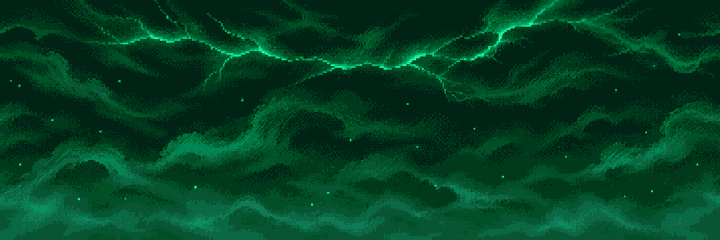
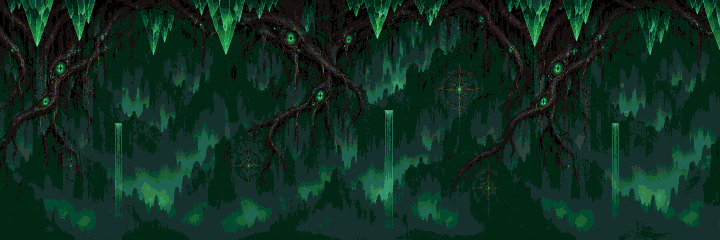
Jade Hollow: Robert's cavern sky and middle layer cut in; walkways, posts and blocks still borrowed from the Spires (v0.15.0)
Claude-Session: https://claude.ai/code/session_014iNMQLwM4oBRY4MMgoH4Hp

diff --git a/src/scenery.js b/src/scenery.js
@@ -1,3 +1,3 @@
 /* Level scenery cut by tools/cut_scenery.py from Robert's GPT art: atlas rects [x, y, w, h] and strip sizes. */
 window.DS = window.DS || {};
-DS.SCENERY = {"shallows":{"atlas":{"shrine1":[0,0,73,52],"shrine2":[74,0,64,62],"shrine3":[139,0,66,49],"post1":[206,0,31,66],"post2":[238,0,47,66],"cart":[286,0,78,26]}},"mire":{"atlas":{"chapel":[0,0,227,132],"hang1":[228,0,104,118],"hang2":[333,0,110,115],"hang3":[444,0,96,118],"grave1":[541,0,15,19],"grave2":[557,0,14,20],"grave3":[572,0,21,10],"grave4":[594,0,17,21],"grave5":[612,0,15,22],"grave6":[628,0,13,11],"tree1":[642,0,49,68],"tree2":[692,0,73,91],"tree3":[766,0,46,83],"tree4":[813,0,72,71],"tree5":[886,0,43,62],"tree6":[930,0,73,69],"walk":[0,133,279,17],"post1":[280,133,10,80],"post2":[291,133,10,80],"post3":[302,133,10,80],"post4":[313,133,10,80],"block1":[324,133,83,19],"block2":[408,133,83,38],"block3":[492,133,133,75],"steps":[626,133,104,38]},"sky":[720,240],"far":[582,64]},"reaches":{"atlas":{"bridge":[0,0,265,76],"tower":[266,0,53,128],"crag1":[320,0,92,134],"crag2":[413,0,133,134],"crag3":[547,0,133,140],"rock1":[681,0,63,92],"rock2":[745,0,69,50],"window":[815,0,76,87],"rock3":[892,0,74,85],"scaffold":[0,141,72,85],"banner":[73,141,78,96],"walk":[152,141,147,17],"post1":[300,141,20,80],"post2":[321,141,20,80],"post3":[342,141,20,80],"post4":[363,141,20,80],"block1":[384,141,73,37],"block2":[458,141,68,56],"block3":[527,141,100,75],"steps":[628,141,84,55]},"sky":[720,240],"far":[385,64]},"abyss":{"atlas":{"agrave1":[0,0,26,40],"agrave2":[27,0,28,40],"agrave3":[56,0,29,30],"crystal1":[86,0,21,19],"crystal2":[108,0,31,30],"crystal3":[140,0,30,39],"briar1":[171,0,100,96],"briar2":[272,0,67,27],"bellframe":[340,0,131,96],"dtree1":[472,0,71,87],"dtree2":[544,0,74,86],"dtree3":[619,0,60,92],"dtree4":[680,0,75,92],"dtree5":[756,0,62,89],"dtree6":[819,0,69,89],"walk":[0,97,155,15],"post1":[156,97,20,80],"post2":[177,97,22,80],"post3":[200,97,22,80],"post4":[223,97,31,80],"block1":[255,97,87,29],"block2":[343,97,83,47],"block3":[427,97,131,75],"steps":[559,97,105,60]},"sky":[720,240],"far":[439,64]},"spires":{"atlas":{"portal":[0,0,117,130],"pylon":[118,0,60,124],"pylonBroken":[179,0,55,85],"isle1":[235,0,65,73],"isle2":[301,0,78,71],"isle3":[380,0,65,77],"arch":[446,0,75,75],"cpillar":[522,0,45,89],"wall":[568,0,57,70],"fisle1":[626,0,66,77],"chpillar":[693,0,58,75],"fisle2":[752,0,47,92],"walk":[800,0,119,15],"post1":[920,0,16,70],"post2":[937,0,20,70],"post3":[958,0,26,70],"post4":[985,0,24,80],"block1":[0,131,62,33],"block2":[63,131,60,48],"block3":[124,131,87,75],"steps":[212,131,76,56]},"sky":[720,240],"far":[401,64]},"mines":{"atlas":{"headframe":[0,0,105,100],"cart":[106,0,96,37],"brazier":[203,0,60,69],"lavafall":[264,0,114,110],"pillar":[379,0,93,110],"gate":[473,0,147,110],"basalt":[621,0,65,85],"scaffold":[687,0,68,85],"chimney":[756,0,69,88],"mheadframe":[826,0,81,92],"lavarock":[908,0,63,88],"parch":[0,111,76,80],"walk":[77,111,214,17],"post1":[292,111,25,80],"post2":[318,111,33,80],"post3":[352,111,27,80],"post4":[380,111,37,80],"block1":[418,111,83,28],"block2":[502,111,83,44],"block3":[586,111,128,75],"steps":[715,111,109,60]},"sky":[720,240],"far":[363,64]},"throne":{"atlas":{"throne":[0,0,142,110],"curtain":[143,0,82,110],"statue":[226,0,58,104],"tpillar1":[285,0,35,88],"tbanner1":[321,0,38,88],"tbrazier1":[360,0,35,83],"tbroken1":[396,0,58,80],"tbanner2":[455,0,39,88],"tbrazier2":[495,0,45,92],"tpillar2":[541,0,36,92],"tbanner3":[578,0,40,92],"tbrazier3":[619,0,35,81],"tpillar3":[655,0,35,92],"tbanner4":[691,0,41,92],"tbrazier4":[733,0,34,86],"tbroken2":[768,0,47,72],"walk":[0,111,250,17],"post1":[251,111,20,80],"post2":[272,111,20,80],"post3":[293,111,24,80],"post4":[318,111,19,80],"block1":[338,111,87,28],"block2":[426,111,88,46],"block3":[515,111,117,75],"steps":[633,111,108,58]},"sky":[720,240],"far":[342,64]}};
+DS.SCENERY = {"shallows":{"atlas":{"shrine1":[0,0,73,52],"shrine2":[74,0,64,62],"shrine3":[139,0,66,49],"post1":[206,0,31,66],"post2":[238,0,47,66],"cart":[286,0,78,26]}},"mire":{"atlas":{"chapel":[0,0,227,132],"hang1":[228,0,104,118],"hang2":[333,0,110,115],"hang3":[444,0,96,118],"grave1":[541,0,15,19],"grave2":[557,0,14,20],"grave3":[572,0,21,10],"grave4":[594,0,17,21],"grave5":[612,0,15,22],"grave6":[628,0,13,11],"tree1":[642,0,49,68],"tree2":[692,0,73,91],"tree3":[766,0,46,83],"tree4":[813,0,72,71],"tree5":[886,0,43,62],"tree6":[930,0,73,69],"walk":[0,133,279,17],"post1":[280,133,10,80],"post2":[291,133,10,80],"post3":[302,133,10,80],"post4":[313,133,10,80],"block1":[324,133,83,19],"block2":[408,133,83,38],"block3":[492,133,133,75],"steps":[626,133,104,38]},"sky":[720,240],"far":[582,64]},"reaches":{"atlas":{"bridge":[0,0,265,76],"tower":[266,0,53,128],"crag1":[320,0,92,134],"crag2":[413,0,133,134],"crag3":[547,0,133,140],"rock1":[681,0,63,92],"rock2":[745,0,69,50],"window":[815,0,76,87],"rock3":[892,0,74,85],"scaffold":[0,141,72,85],"banner":[73,141,78,96],"walk":[152,141,147,17],"post1":[300,141,20,80],"post2":[321,141,20,80],"post3":[342,141,20,80],"post4":[363,141,20,80],"block1":[384,141,73,37],"block2":[458,141,68,56],"block3":[527,141,100,75],"steps":[628,141,84,55]},"sky":[720,240],"far":[385,64]},"abyss":{"atlas":{"agrave1":[0,0,26,40],"agrave2":[27,0,28,40],"agrave3":[56,0,29,30],"crystal1":[86,0,21,19],"crystal2":[108,0,31,30],"crystal3":[140,0,30,39],"briar1":[171,0,100,96],"briar2":[272,0,67,27],"bellframe":[340,0,131,96],"dtree1":[472,0,71,87],"dtree2":[544,0,74,86],"dtree3":[619,0,60,92],"dtree4":[680,0,75,92],"dtree5":[756,0,62,89],"dtree6":[819,0,69,89],"walk":[0,97,155,15],"post1":[156,97,20,80],"post2":[177,97,22,80],"post3":[200,97,22,80],"post4":[223,97,31,80],"block1":[255,97,87,29],"block2":[343,97,83,47],"block3":[427,97,131,75],"steps":[559,97,105,60]},"sky":[720,240],"far":[439,64]},"spires":{"atlas":{"portal":[0,0,117,130],"pylon":[118,0,60,124],"pylonBroken":[179,0,55,85],"isle1":[235,0,65,73],"isle2":[301,0,78,71],"isle3":[380,0,65,77],"arch":[446,0,75,75],"cpillar":[522,0,45,89],"wall":[568,0,57,70],"fisle1":[626,0,66,77],"chpillar":[693,0,58,75],"fisle2":[752,0,47,92],"walk":[800,0,119,15],"post1":[920,0,16,70],"post2":[937,0,20,70],"post3":[958,0,26,70],"post4":[985,0,24,80],"block1":[0,131,62,33],"block2":[63,131,60,48],"block3":[124,131,87,75],"steps":[212,131,76,56]},"sky":[720,240],"far":[401,64]},"mines":{"atlas":{"headframe":[0,0,105,100],"cart":[106,0,96,37],"brazier":[203,0,60,69],"lavafall":[264,0,114,110],"pillar":[379,0,93,110],"gate":[473,0,147,110],"basalt":[621,0,65,85],"scaffold":[687,0,68,85],"chimney":[756,0,69,88],"mheadframe":[826,0,81,92],"lavarock":[908,0,63,88],"parch":[0,111,76,80],"walk":[77,111,214,17],"post1":[292,111,25,80],"post2":[318,111,33,80],"post3":[352,111,27,80],"post4":[380,111,37,80],"block1":[418,111,83,28],"block2":[502,111,83,44],"block3":[586,111,128,75],"steps":[715,111,109,60]},"sky":[720,240],"far":[363,64]},"throne":{"atlas":{"throne":[0,0,142,110],"curtain":[143,0,82,110],"statue":[226,0,58,104],"tpillar1":[285,0,35,88],"tbanner1":[321,0,38,88],"tbrazier1":[360,0,35,83],"tbroken1":[396,0,58,80],"tbanner2":[455,0,39,88],"tbrazier2":[495,0,45,92],"tpillar2":[541,0,36,92],"tbanner3":[578,0,40,92],"tbrazier3":[619,0,35,81],"tpillar3":[655,0,35,92],"tbanner4":[691,0,41,92],"tbrazier4":[733,0,34,86],"tbroken2":[768,0,47,72],"walk":[0,111,250,17],"post1":[251,111,20,80],"post2":[272,111,20,80],"post3":[293,111,24,80],"post4":[318,111,19,80],"block1":[338,111,87,28],"block2":[426,111,88,46],"block3":[515,111,117,75],"steps":[633,111,108,58]},"sky":[720,240],"far":[342,64]},"jade":{"atlas":{"jarch":[0,0,98,76],"jroot":[99,0,71,77],"jcrystal":[171,0,74,77],"jpillar":[246,0,39,81],"jcpillar":[286,0,50,92],"jstub":[337,0,37,49],"walk":[375,0,119,15],"post1":[495,0,16,70],"post2":[512,0,20,70],"post3":[533,0,26,70],"post4":[560,0,24,80],"block1":[585,0,62,33],"block2":[648,0,60,48],"block3":[709,0,87,75],"steps":[797,0,76,56]},"sky":[720,240]}};

diff --git a/src/world.js b/src/world.js
@@ -350,12 +350,11 @@ function reeds(){
         "tpillar2", "tbanner3", "tbrazier3", "tpillar3", "tbanner4", "tbrazier4", "tbroken2"] },
       { f: 0.75, ty: 0.9, sink: 3, gap: [240, 560], pick: ["throne", "curtain", "statue", "statue"] },
     ] },
-    // map 7, the Jade Hollow (Robert's concept 2026-11-25): a stand-in until his pictures come back. tools/standin_jade.py
-    // turns the Spires' cut scenery jade green, so it borrows the Spires' rects (rectsFrom) and leaves out the floating isles.
-    jade: { rectsFrom: "spires", reeds: false, sky: true, far: true, plats: true, ground: "jade", top: "#04100c", fog: "#0c2a20", wisp: ["#7affc0", "#2a8a5a"],
+    // map 7, the Jade Hollow: Robert's cavern sky and middle layer (2026-11-26); its walkways, posts and blocks are still
+    // the Spires' turned jade green (BORROW in tools/cut_scenery.py) until he draws them
+    jade: { reeds: false, sky: true, plats: true, ground: "jade", top: "#04100c", fog: "#0c2a20", wisp: ["#7affc0", "#2a8a5a"],
       posts: ["post1", "post2", "post3"], rows: [
-      { f: 0.6, ty: 0.84, sink: 2, gap: [-10, 70], pick: ["arch", "cpillar", "wall", "chpillar"] },
-      { f: 0.75, ty: 0.9, sink: 3, gap: [220, 520], pick: ["pylon", "portal", "pylonBroken", "pylon"] },
+      { f: 0.6, ty: 0.84, sink: 2, gap: [-10, 70], pick: ["jarch", "jroot", "jcrystal", "jpillar", "jcpillar", "jstub"] },
     ] },
     mire: { sky: true, far: true, plats: true, ground: "mire", top: "#10140e", fog: "#232a1b", wisp: ["#d8e070", "#8a9a48"], rows: [
       { f: 0.55, ty: 0.82, sink: 2, gap: [-20, 50], pick: ["tree1", "tree2", "tree3", "tree4", "tree5", "tree6"] },
@@ -375,7 +374,7 @@ function reeds(){
     themeName = LEVEL_THEMES[m % LEVEL_THEMES.length];
     T = THEMES[themeName];
     if (!T.ready) { // load its pictures and lay out each row once: a loop of pieces long enough not to notice
-      const sc = (DS.SCENERY || {})[themeName] || (DS.SCENERY || {})[T.rectsFrom]; // a stand-in borrows another map's cut
+      const sc = (DS.SCENERY || {})[themeName];
       T.atlas = sc && img(`assets/scenery/${themeName}/atlas.png`);
       T.rects = sc ? sc.atlas : {};
       if (T.sky) T.skyImg = img(`assets/scenery/${themeName}/sky.png`);

diff --git a/tools/cut_scenery.py b/tools/cut_scenery.py
@@ -68,15 +68,22 @@ SHEETS = {
         "posts.png": (["post1", "post2", "post3", "post4"], 80, 0.0),
         "blocks.png": (["block1", "block2", "block3", "steps"], 75, 0.0),
     },
+    # map 7 (Robert 2026-11-25): his middle layer and sky are in (his second backdrop, sky-scene.png with the arches and
+    # waterfalls, was tried as the sky 2026-11-26 but crowds the platforms; kept in returned/ for later); walkways, posts and blocks still borrow the Spires'
+    # turned jade green (BORROW below) until he draws them
+    "jade": {
+        "mid.png": (["jarch", "jroot", "jcrystal", "jpillar", "jcpillar", "jstub"], 92, 0.3),
+    },
 }
+BORROW = {"jade": ("spires", ["walk", "post1", "post2", "post3", "post4", "block1", "block2", "block3", "steps"])}
 # full-width strips: (target height px, fog). The sky is a plain picture; "far" is silhouettes on magenta.
-STRIPS = {"mire": {"sky.png": 240, "far.png": 250}, "reaches": {"sky.png": 240, "far.png": 250}, "abyss": {"sky.png": 240, "far.png": 250}, "spires": {"sky.png": 240, "far.png": 250}, "mines": {"sky.png": 240, "far.png": 250}, "throne": {"sky.png": 240, "far.png": 250}}
+STRIPS = {"mire": {"sky.png": 240, "far.png": 250}, "reaches": {"sky.png": 240, "far.png": 250}, "abyss": {"sky.png": 240, "far.png": 250}, "spires": {"sky.png": 240, "far.png": 250}, "mines": {"sky.png": 240, "far.png": 250}, "throne": {"sky.png": 240, "far.png": 250}, "jade": {"sky.png": 240}}
 GREEN = {"spires", "mines", "throne"}  # maps drawn on a green key
 # sheets drawn as rows stacked top to bottom: keep only the last (longest) row
 LAST_ROW = {("mire", "walkways.png"), ("reaches", "walkways.png"), ("abyss", "walkways.png"), ("spires", "walkways.png"), ("mines", "walkways.png"), ("throne", "walkways.png")}
 # sheets whose pieces overlap in x (branches): rough cut columns, each moved to the emptiest column within 50 px
 SPLIT = {("mire", "mid.png"): [350, 760, 1040, 1440, 1705], ("reaches", "mid.png"): [325, 680, 1046, 1419, 1782], ("abyss", "mid.png"): [375, 770, 1068, 1469, 1808], ("mines", "lavafalls-pillars.png"): [712, 1278]}
-FOG = {"throne": (40, 14, 12), "spires": (44, 22, 60), "mines": (40, 20, 14), "shallows": (36, 58, 64), "mire": (52, 62, 36), "reaches": (60, 70, 80), "abyss": (40, 18, 22)}
+FOG = {"jade": (12, 40, 30), "throne": (40, 14, 12), "spires": (44, 22, 60), "mines": (40, 20, 14), "shallows": (36, 58, 64), "mire": (52, 62, 36), "reaches": (60, 70, 80), "abyss": (40, 18, 22)}
 
 
 def key(im, green=False):
@@ -170,6 +177,12 @@ for lv, sheets in SHEETS.items():
         for name, c in zip(names, cuts):
             im = crop(shrink(c, scale, fog, FOG[lv], lv in GREEN))
             pieces.append((name, im))
+    if lv in BORROW: # pieces from another map's cut, turned to this map's colours (tools/standin_jade.py)
+        from standin_jade import turn
+        src, names = BORROW[lv]; A = Image.open(os.path.join(OUT, src, "atlas.png")).convert("RGBA")
+        for n in names:
+            x, y, w, h = data[src]["atlas"][n]
+            pieces.append((n, turn(A.crop((x, y, x + w, y + h)), sat=1.1)))
     atlas, rects = pack(pieces)
     atlas.save(os.path.join(OUT, lv, "atlas.png"))
     data[lv] = {"atlas": rects}

diff --git a/tools/standin_jade.py b/tools/standin_jade.py
@@ -1,8 +1,7 @@
 """Stand-in art for the Jade Hollow (map 7, Robert 2026-11-25) until his pictures come back from the prompts in
-/mnt/project-files/art-prompts/side-view/jade-map-prompts.md: the Abyssal Spires' cut scenery (arches, crystal
-pillars, portal, pylons, isles, sky, far layer) and map badge turned from violet to jade green.
-world.js THEMES.jade borrows the Spires' rects (rectsFrom) while this stand-in atlas is in use.
-Once the real art is in, add "jade" to tools/cut_scenery.py (magenta key) and drop rectsFrom.
+/mnt/project-files/art-prompts/side-view/jade-map-prompts.md: turn() makes the Abyssal Spires' violet jade green.
+Run on its own it writes the map badge (assets/maps/jade.png); tools/cut_scenery.py uses turn() for the walkways,
+posts and blocks the Jade Hollow still borrows from the Spires (BORROW there).
 Usage: python3 tools/standin_jade.py"""
 import os
 import numpy as np
@@ -12,8 +11,8 @@ ROOT = os.path.join(os.path.dirname(os.path.abspath(__file__)), "..")
 SHIFT = -0.33  # hue turn: violet (~0.75) to jade green (~0.42)
 
 
-def jade(src, dst, sat=1.0, val=1.0, only_violet=False):
-    im = Image.open(src).convert("RGBA")
+def turn(im, sat=1.0, val=1.0, only_violet=False):
+    im = im.convert("RGBA")
     a = np.array(im)
     hsv = np.array(im.convert("RGB").convert("HSV")).astype(np.float32)
     turn = (hsv[..., 0] > 0.6 * 255) & (hsv[..., 0] < 0.92 * 255) if only_violet else np.ones(hsv.shape[:2], bool)
@@ -21,13 +20,10 @@ def jade(src, dst, sat=1.0, val=1.0, only_violet=False):
     hsv[..., 1] = np.clip(hsv[..., 1] * sat, 0, 255)
     hsv[..., 2] = np.clip(hsv[..., 2] * val, 0, 255)
     rgb = np.array(Image.fromarray(hsv.astype(np.uint8), "HSV").convert("RGB"))
-    out = np.dstack([rgb, a[..., 3]])
-    os.makedirs(os.path.dirname(dst), exist_ok=True)
-    Image.fromarray(out, "RGBA").save(dst, optimize=True)
+    return Image.fromarray(np.dstack([rgb, a[..., 3]]), "RGBA")
 
 
-sc = os.path.join(ROOT, "assets", "scenery")
-for f in ("atlas.png", "sky.png", "far.png"):
-    jade(os.path.join(sc, "spires", f), os.path.join(sc, "jade", f), sat=1.1)
-jade(os.path.join(ROOT, "assets", "maps", "spires.png"), os.path.join(ROOT, "assets", "maps", "jade.png"), sat=1.15, only_violet=True)  # keep its bronze ring
-print("jade stand-ins written")
+if __name__ == "__main__":  # the map badge (Robert's sky and middle layer came in 2026-11-26: tools/cut_scenery.py cuts those)
+    turn(Image.open(os.path.join(ROOT, "assets", "maps", "spires.png")), sat=1.15, only_violet=True).save(  # keep its bronze ring
+        os.path.join(ROOT, "assets", "maps", "jade.png"), optimize=True)
+    print("jade badge written")
